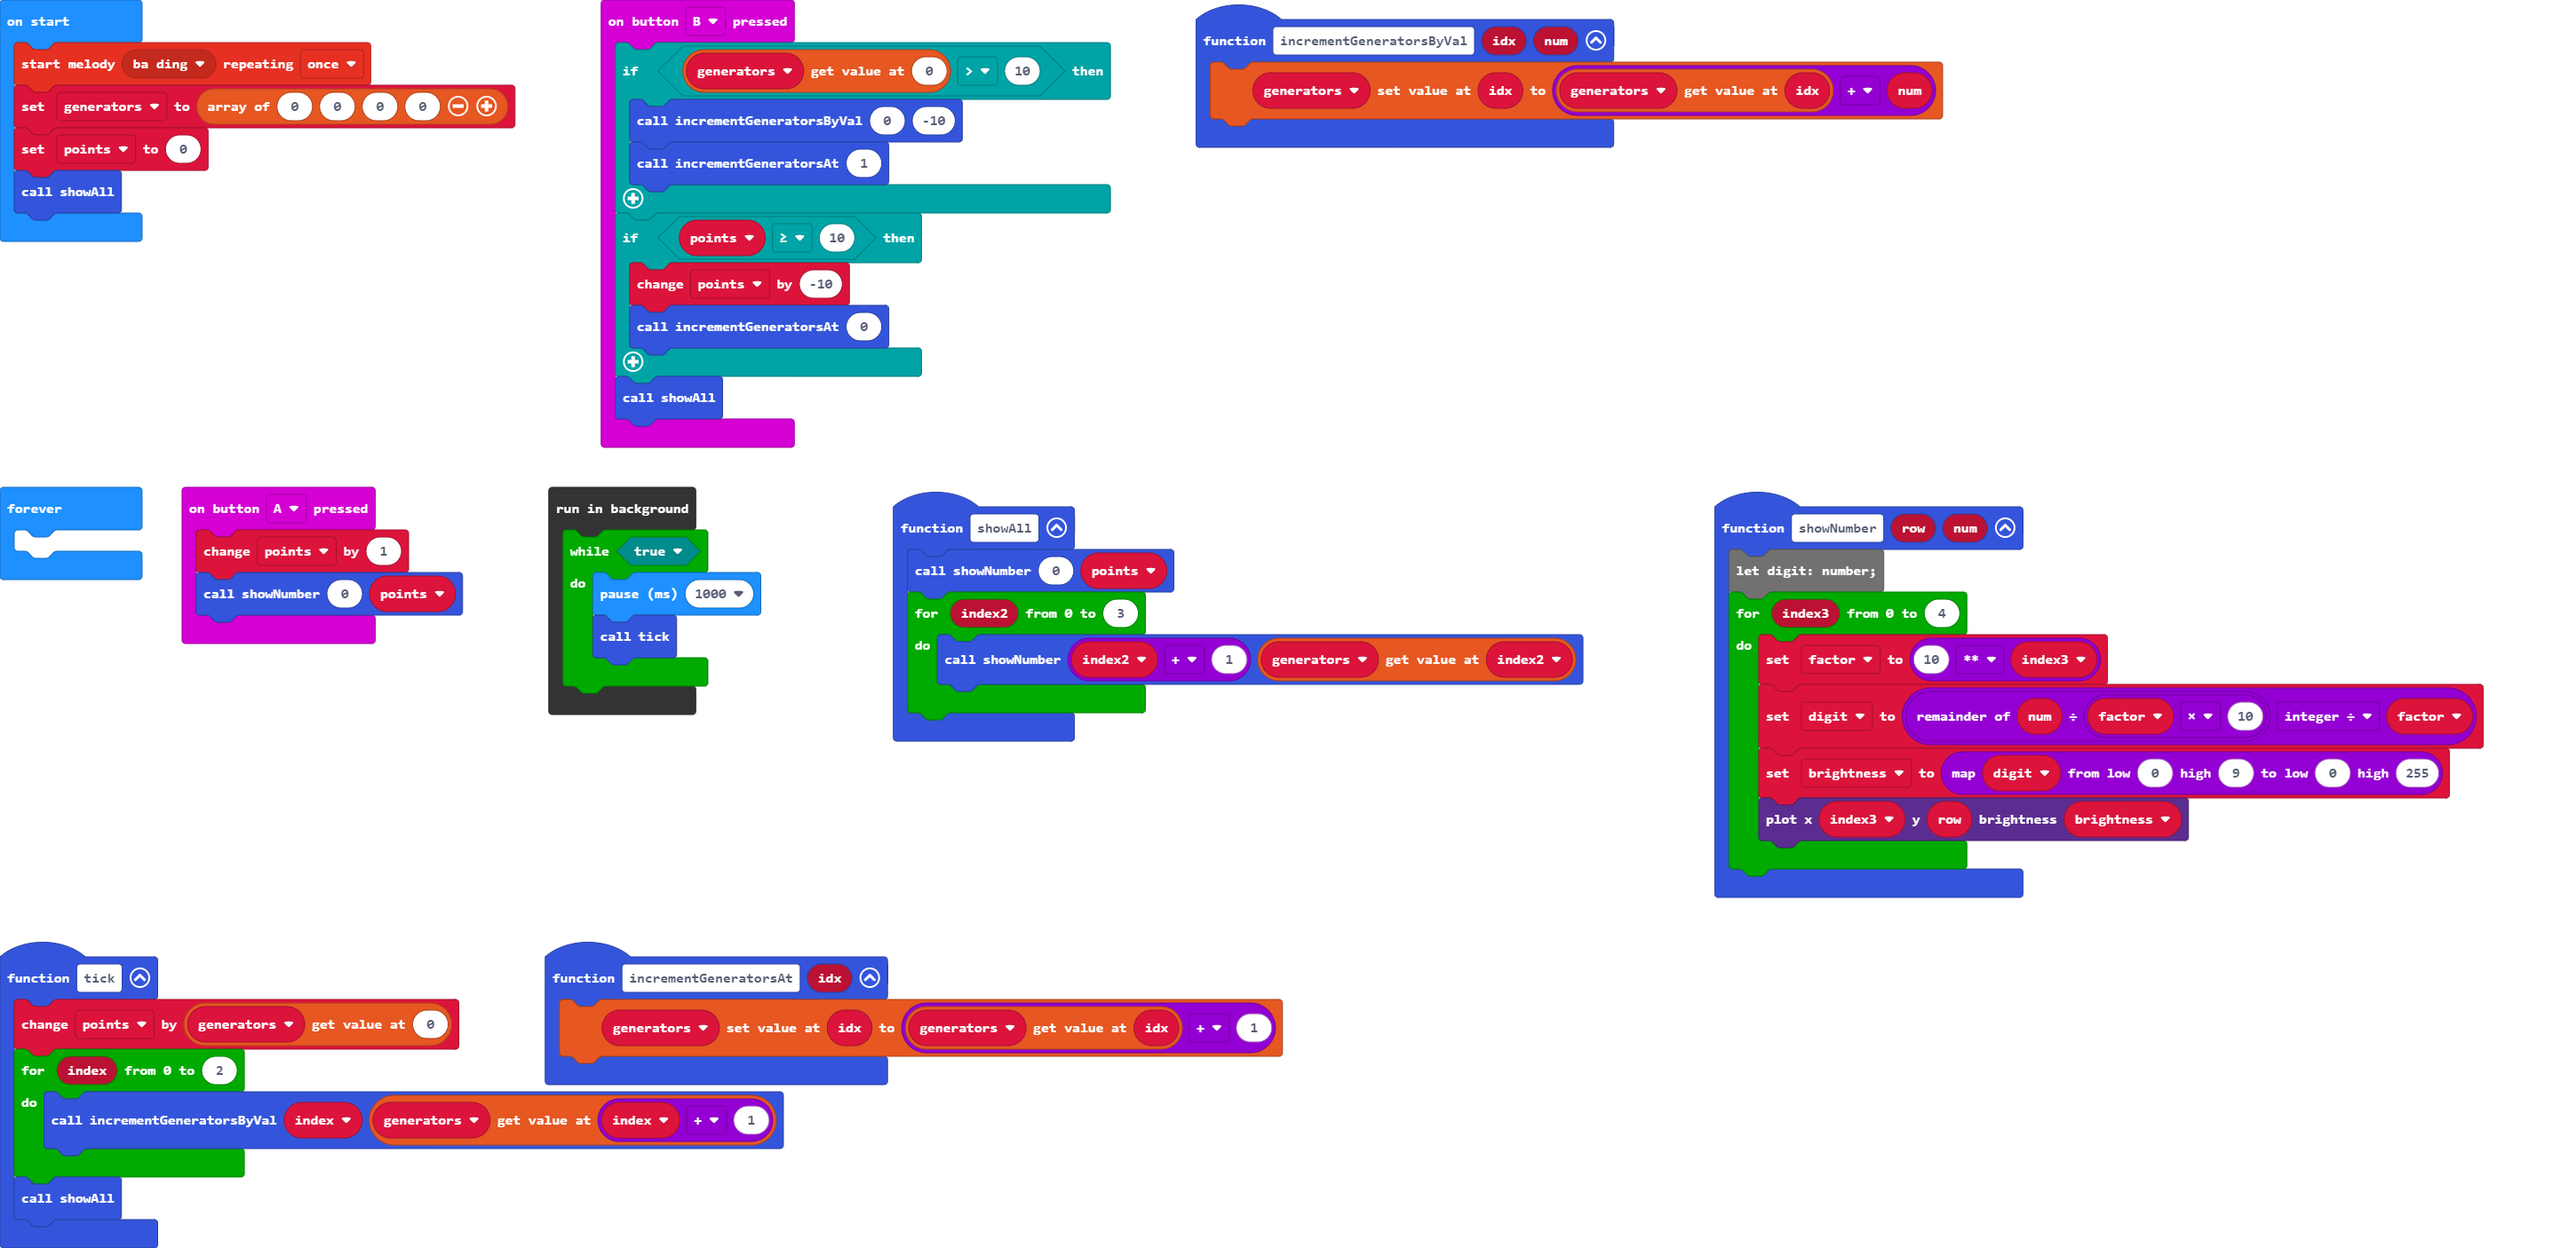
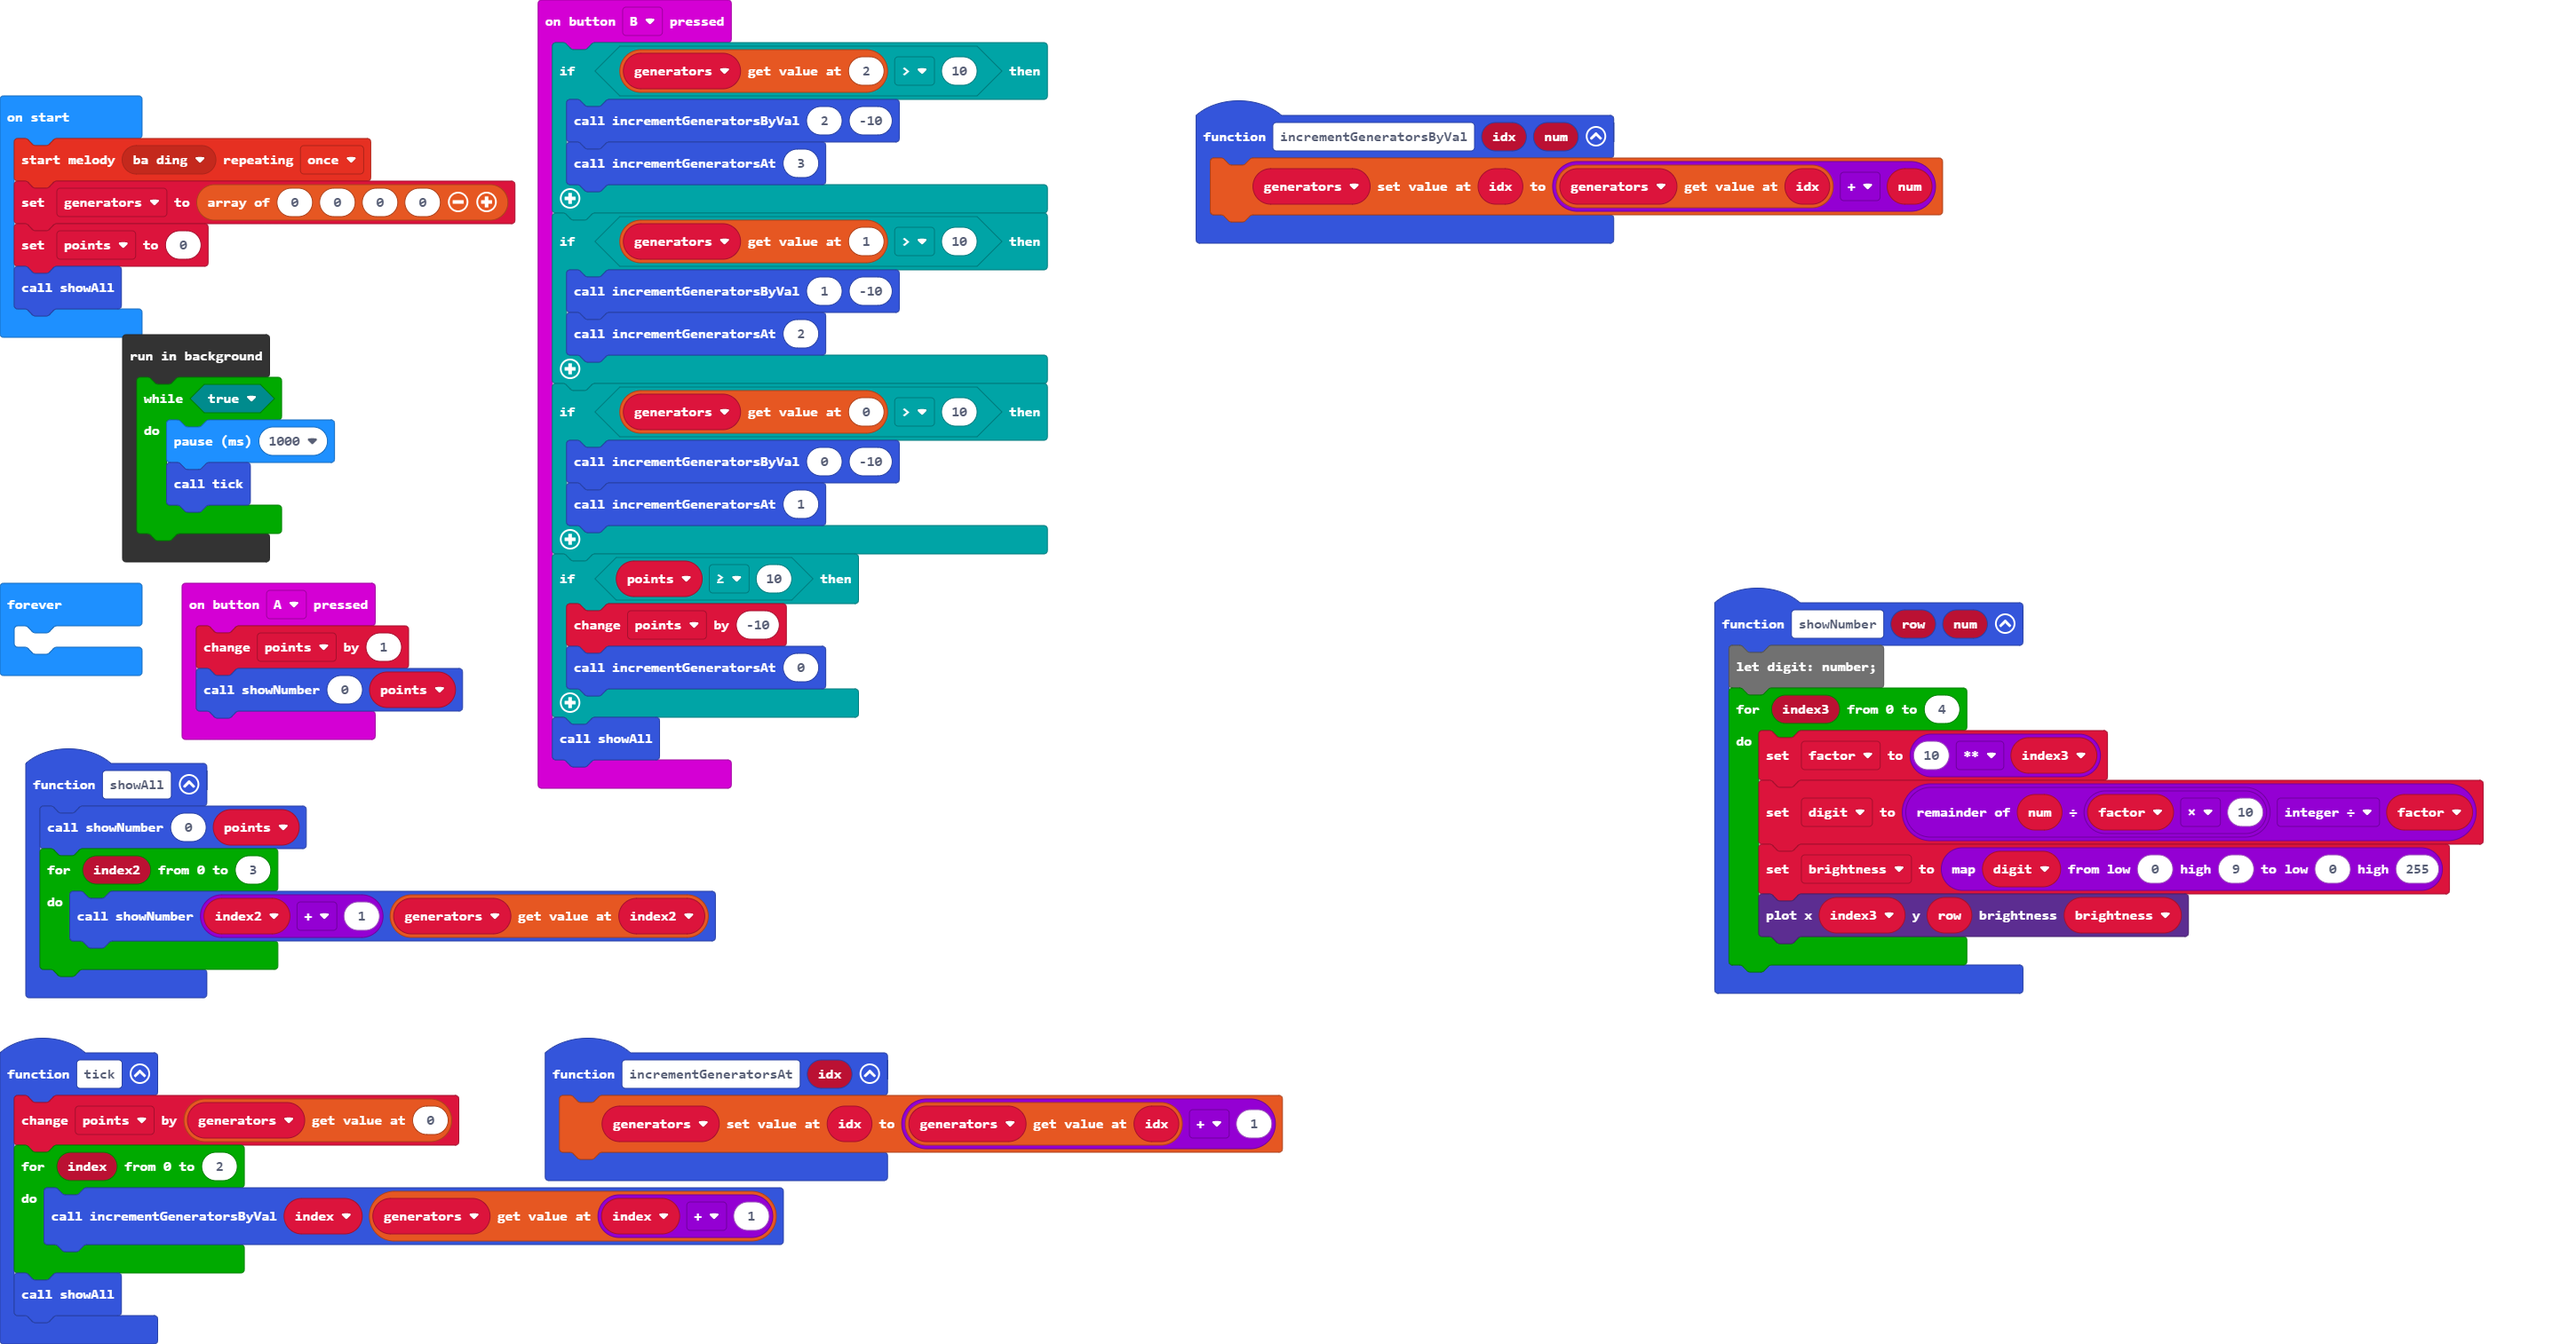
buying generators level 2 and 3

Changed region(s): [[0.0, 0.0, 0.6207, 0.9787], [0.6517, 0.3976, 0.9621, 0.7646], [0.4655, 0.0, 0.7759, 0.1835]]

diff --git a/main.ts b/main.ts
@@ -16,6 +16,14 @@ input.onButtonPressed(Button.A, function () {
     showNumber(0, points)
 })
 input.onButtonPressed(Button.B, function () {
+    if (generators[2] > 10) {
+        incrementGeneratorsByVal(2, -10)
+        incrementGeneratorsAt(3)
+    }
+    if (generators[1] > 10) {
+        incrementGeneratorsByVal(1, -10)
+        incrementGeneratorsAt(2)
+    }
     if (generators[0] > 10) {
         incrementGeneratorsByVal(0, -10)
         incrementGeneratorsAt(1)
